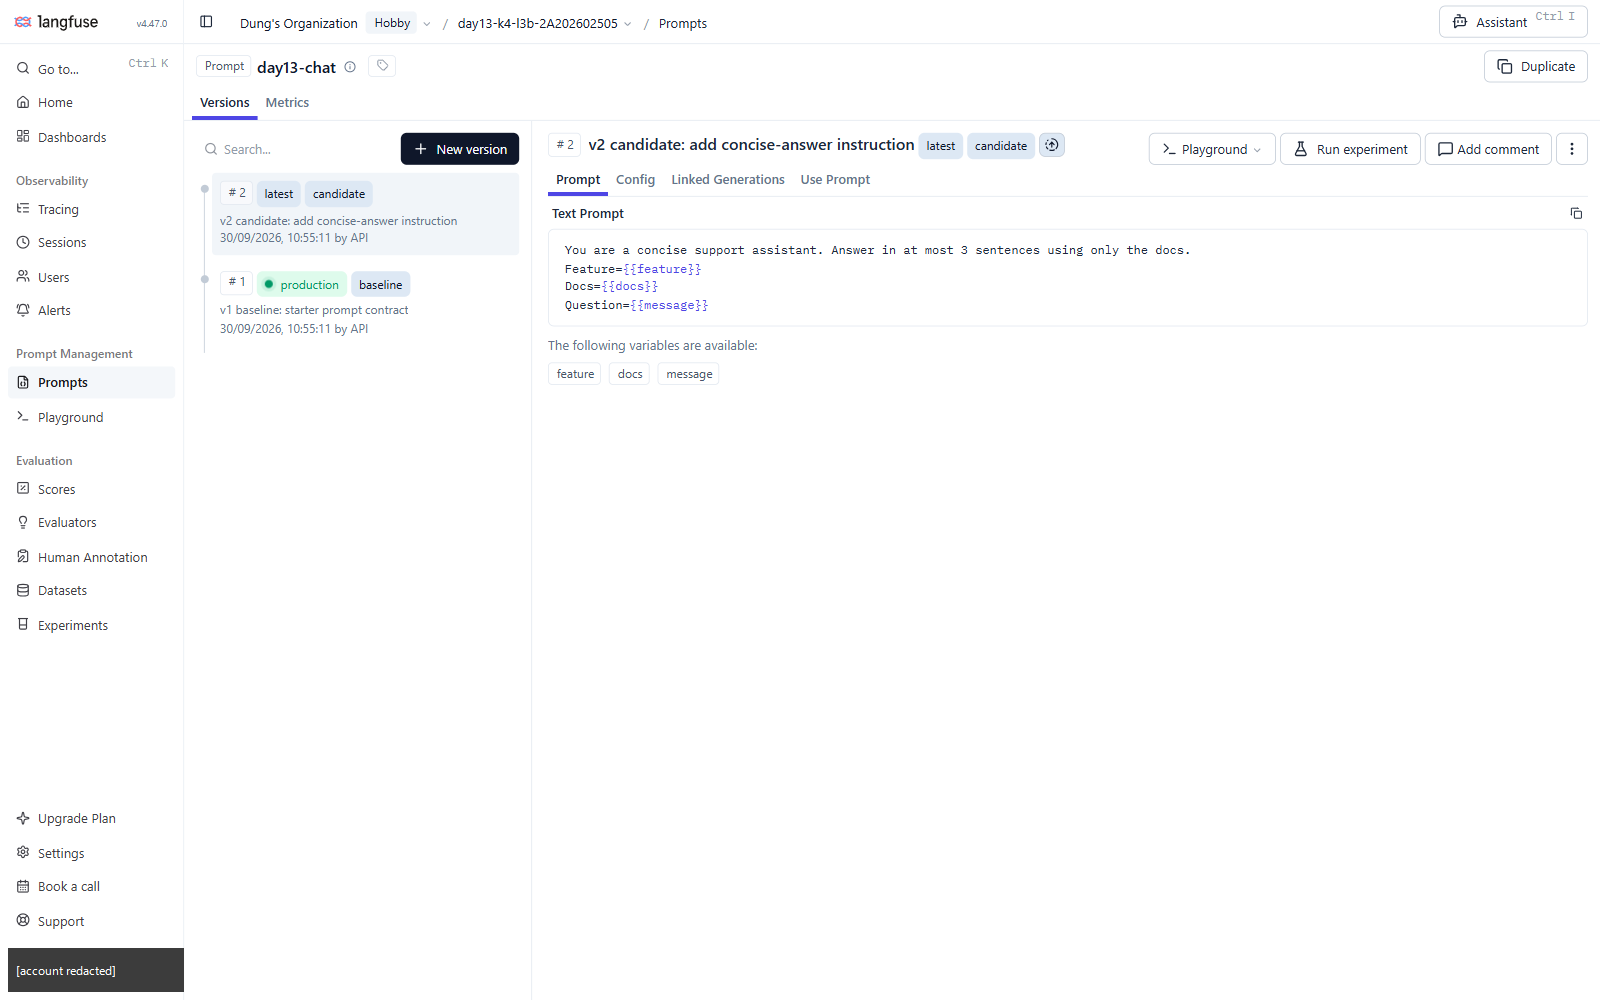
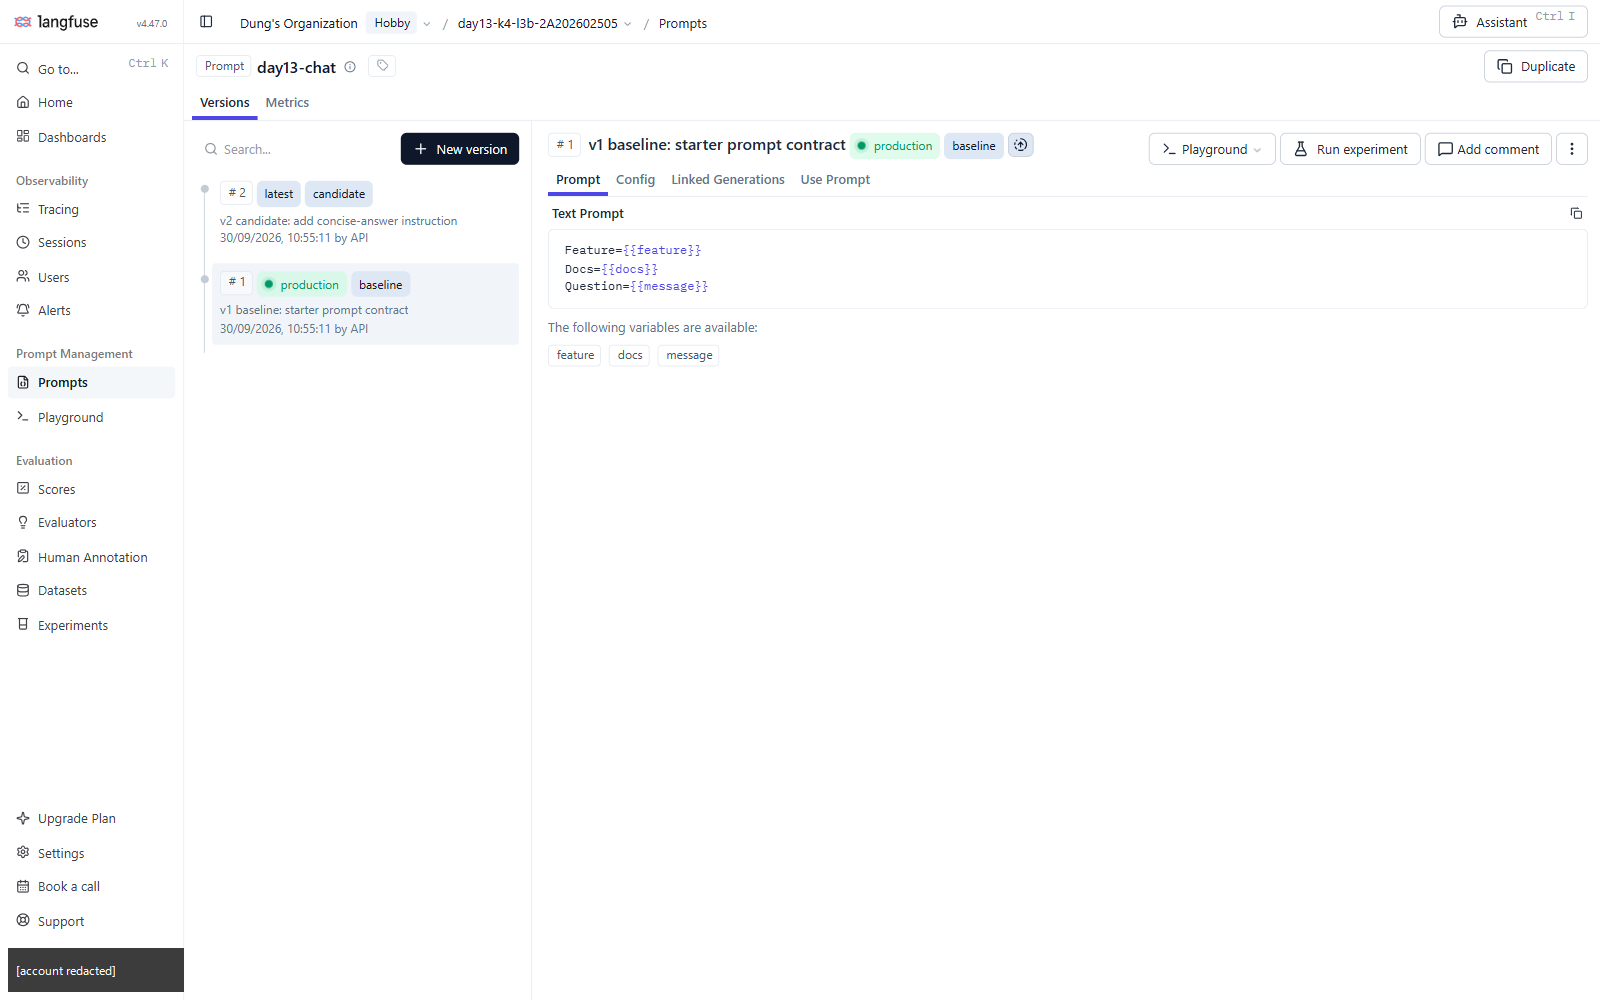
docs(cp2): redo prompt promote/rollback evidence showing production version content

diff --git a/submission/REPORT.md b/submission/REPORT.md
@@ -66,10 +66,10 @@
   |---|---|---|---|
   | `baseline` | v1 | `req-ba5e0011` | `f6eb17f18a7f9fc3ae962b23e3477f74` |
   | `candidate` | v2 | `req-ca0d0002` | `8c07a5558867636419d9c7f8d4029db0` |
-  | `production` sau promote | v2 | `req-20d00003` | `6496daf9173509bc46a6bd252076b4d2` |
-  | `production` sau rollback | v1 | `req-10d00004` | `477c57af558c5aab00a709f2b1ab12da` |
+  | `production` sau promote | v2 | `req-20d00013` | `a3fe6e1c9c6833491e5519277579a1f0` |
+  | `production` sau rollback | v1 | `req-10d00014` | `ef1a567cae7369169d662ea7a83c3c3c` |
 
-- **Cách promote và rollback `production`:** không sửa code; app đọc prompt theo `LANGFUSE_PROMPT_NAME` + `LANGFUSE_PROMPT_LABEL`. Promote: chuyển label `production` sang v2 (`langfuse.update_prompt(name="day13-chat", version=2, new_labels=["production"])`), khởi động lại API để bỏ cache 60s, request `req-20d00003` dùng v2. Rollback: chuyển `production` về v1 (`version=1`), request `req-10d00004` dùng lại v1. Ảnh trước/sau: `evidence/10a-prompt-before-promote.png`, `evidence/10b-prompt-after-promote.png`, `evidence/10c-prompt-after-rollback.png`; danh sách version: `evidence/09-prompt-versions.png`.
+- **Cách promote và rollback `production`:** không sửa code; app đọc prompt theo `LANGFUSE_PROMPT_NAME` + `LANGFUSE_PROMPT_LABEL`. Promote: chuyển label `production` sang v2 (`langfuse.update_prompt(name="day13-chat", version=2, new_labels=["production"])`), khởi động lại API để bỏ cache 60s, request `req-20d00013` dùng v2. Rollback: chuyển `production` về v1 (`version=1`), request `req-10d00014` dùng lại v1. Mỗi ảnh chọn đúng version đang mang label `production` (`?version=N`) để thấy nội dung prompt thay đổi: v1 (chỉ 3 biến) → v2 (thêm câu "concise support assistant") → v1. Ảnh trước/sau: `evidence/10a-prompt-before-promote.png`, `evidence/10b-prompt-after-promote.png`, `evidence/10c-prompt-after-rollback.png`; danh sách version: `evidence/09-prompt-versions.png`.
 
 ## 6. Dashboard, SLO và alerts
 
